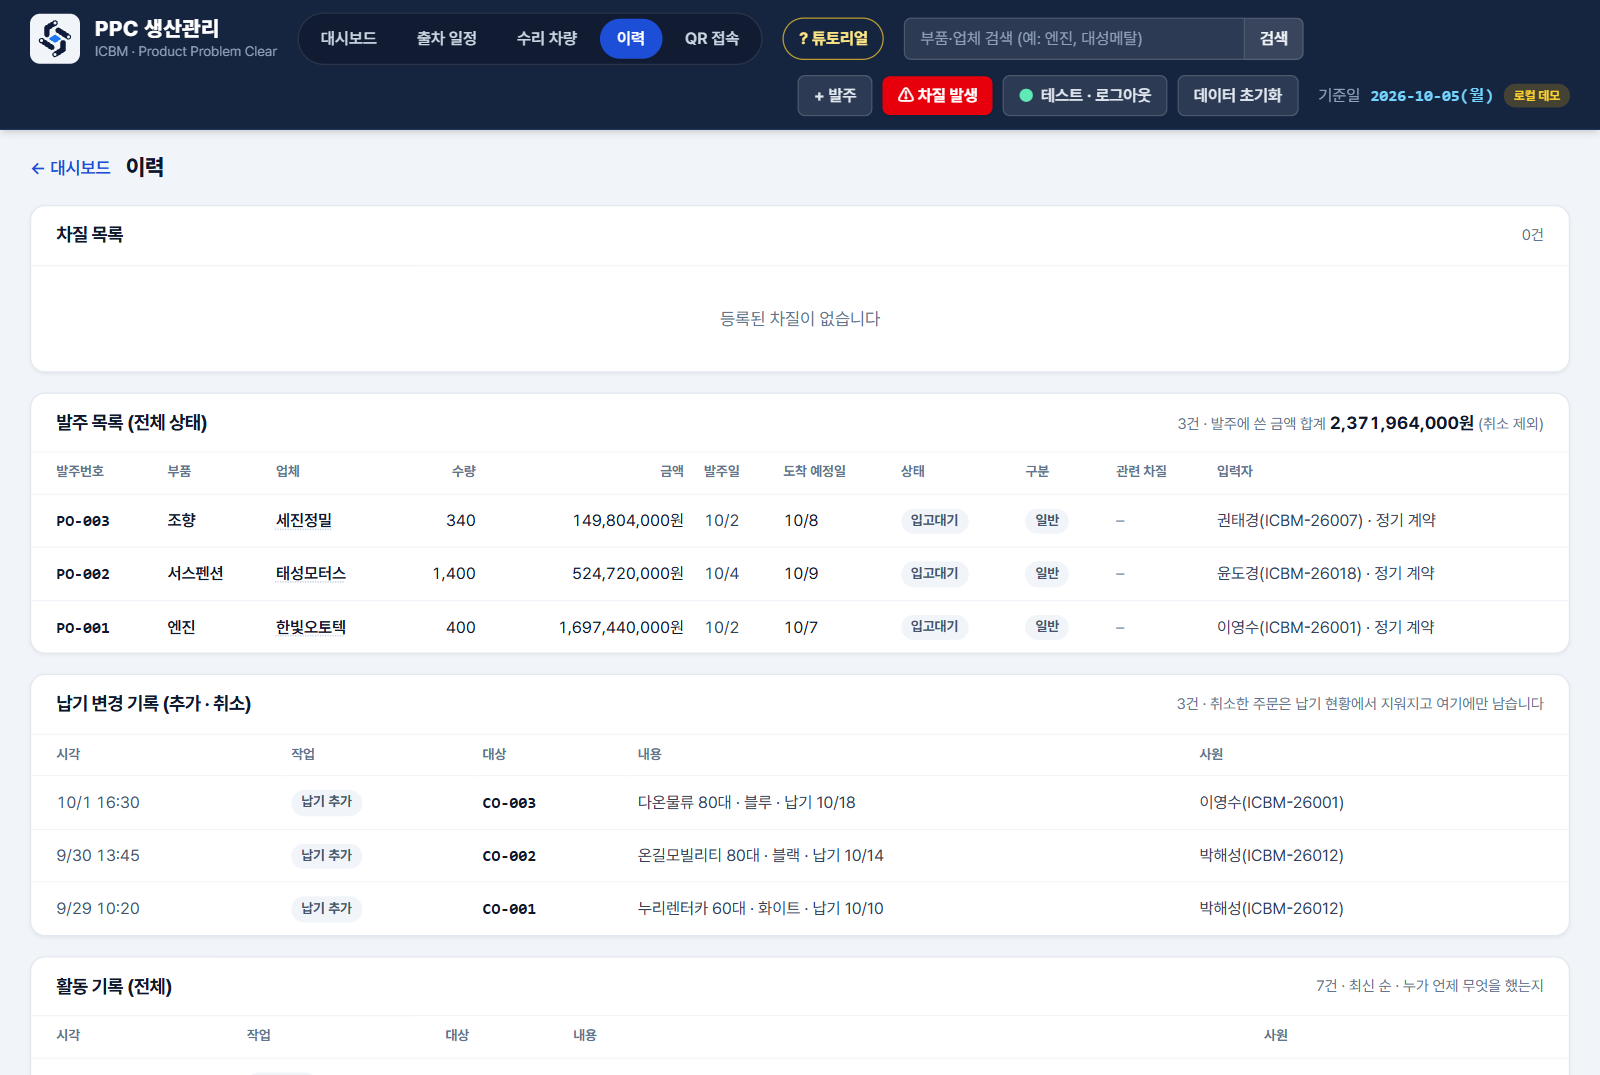
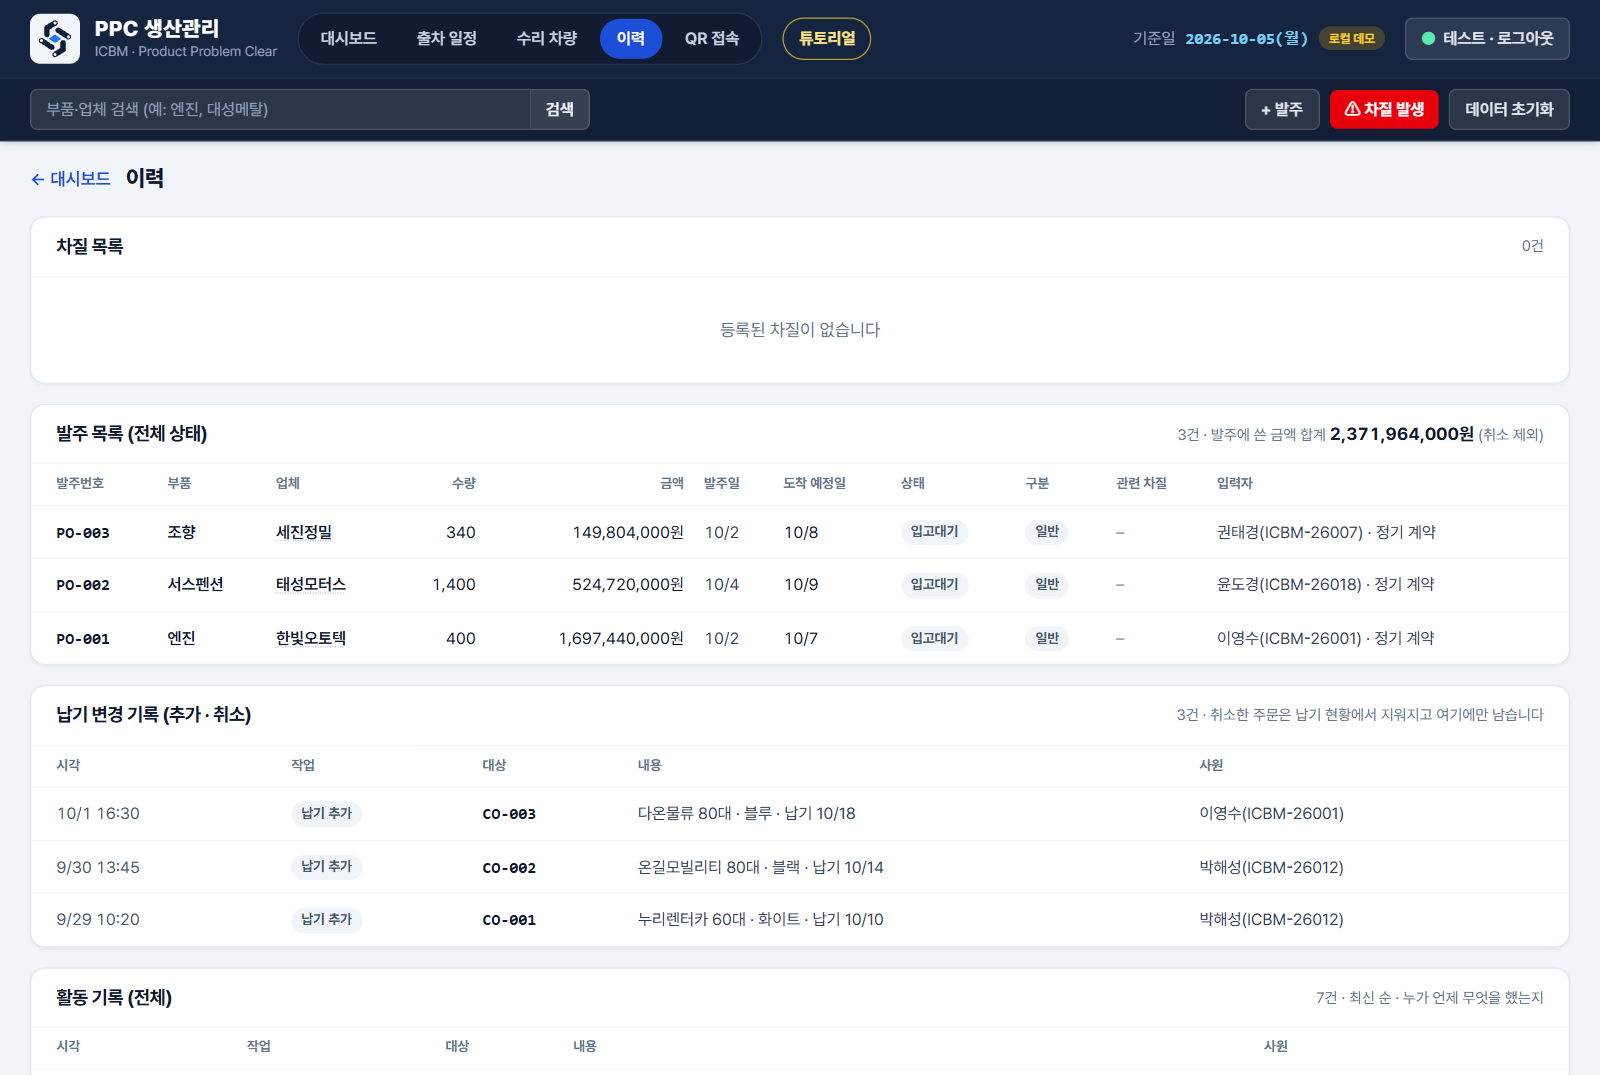
튜토리얼 UI 최신화

diff --git a/ppc/src/pages/TutorialPage.tsx b/ppc/src/pages/TutorialPage.tsx
@@ -160,7 +160,7 @@ export function TutorialPage() {
           />
         </div>
         <Arrow />
-        <Shot name="topbar-in" alt="로그인한 뒤의 상단 바" caption="로그인하면 상단에 [+ 발주] [⚠ 차질 발생] [데이터 초기화] 버튼이 생깁니다" />
+        <Shot name="topbar-in" alt="로그인한 뒤의 상단 바" caption="로그인하면 윗줄 오른쪽이 내 이름으로 바뀌고, 아랫줄 오른쪽에 [+ 발주] [⚠ 차질 발생] [데이터 초기화] 버튼이 생깁니다" />
         <Notes
           items={[
             <>
